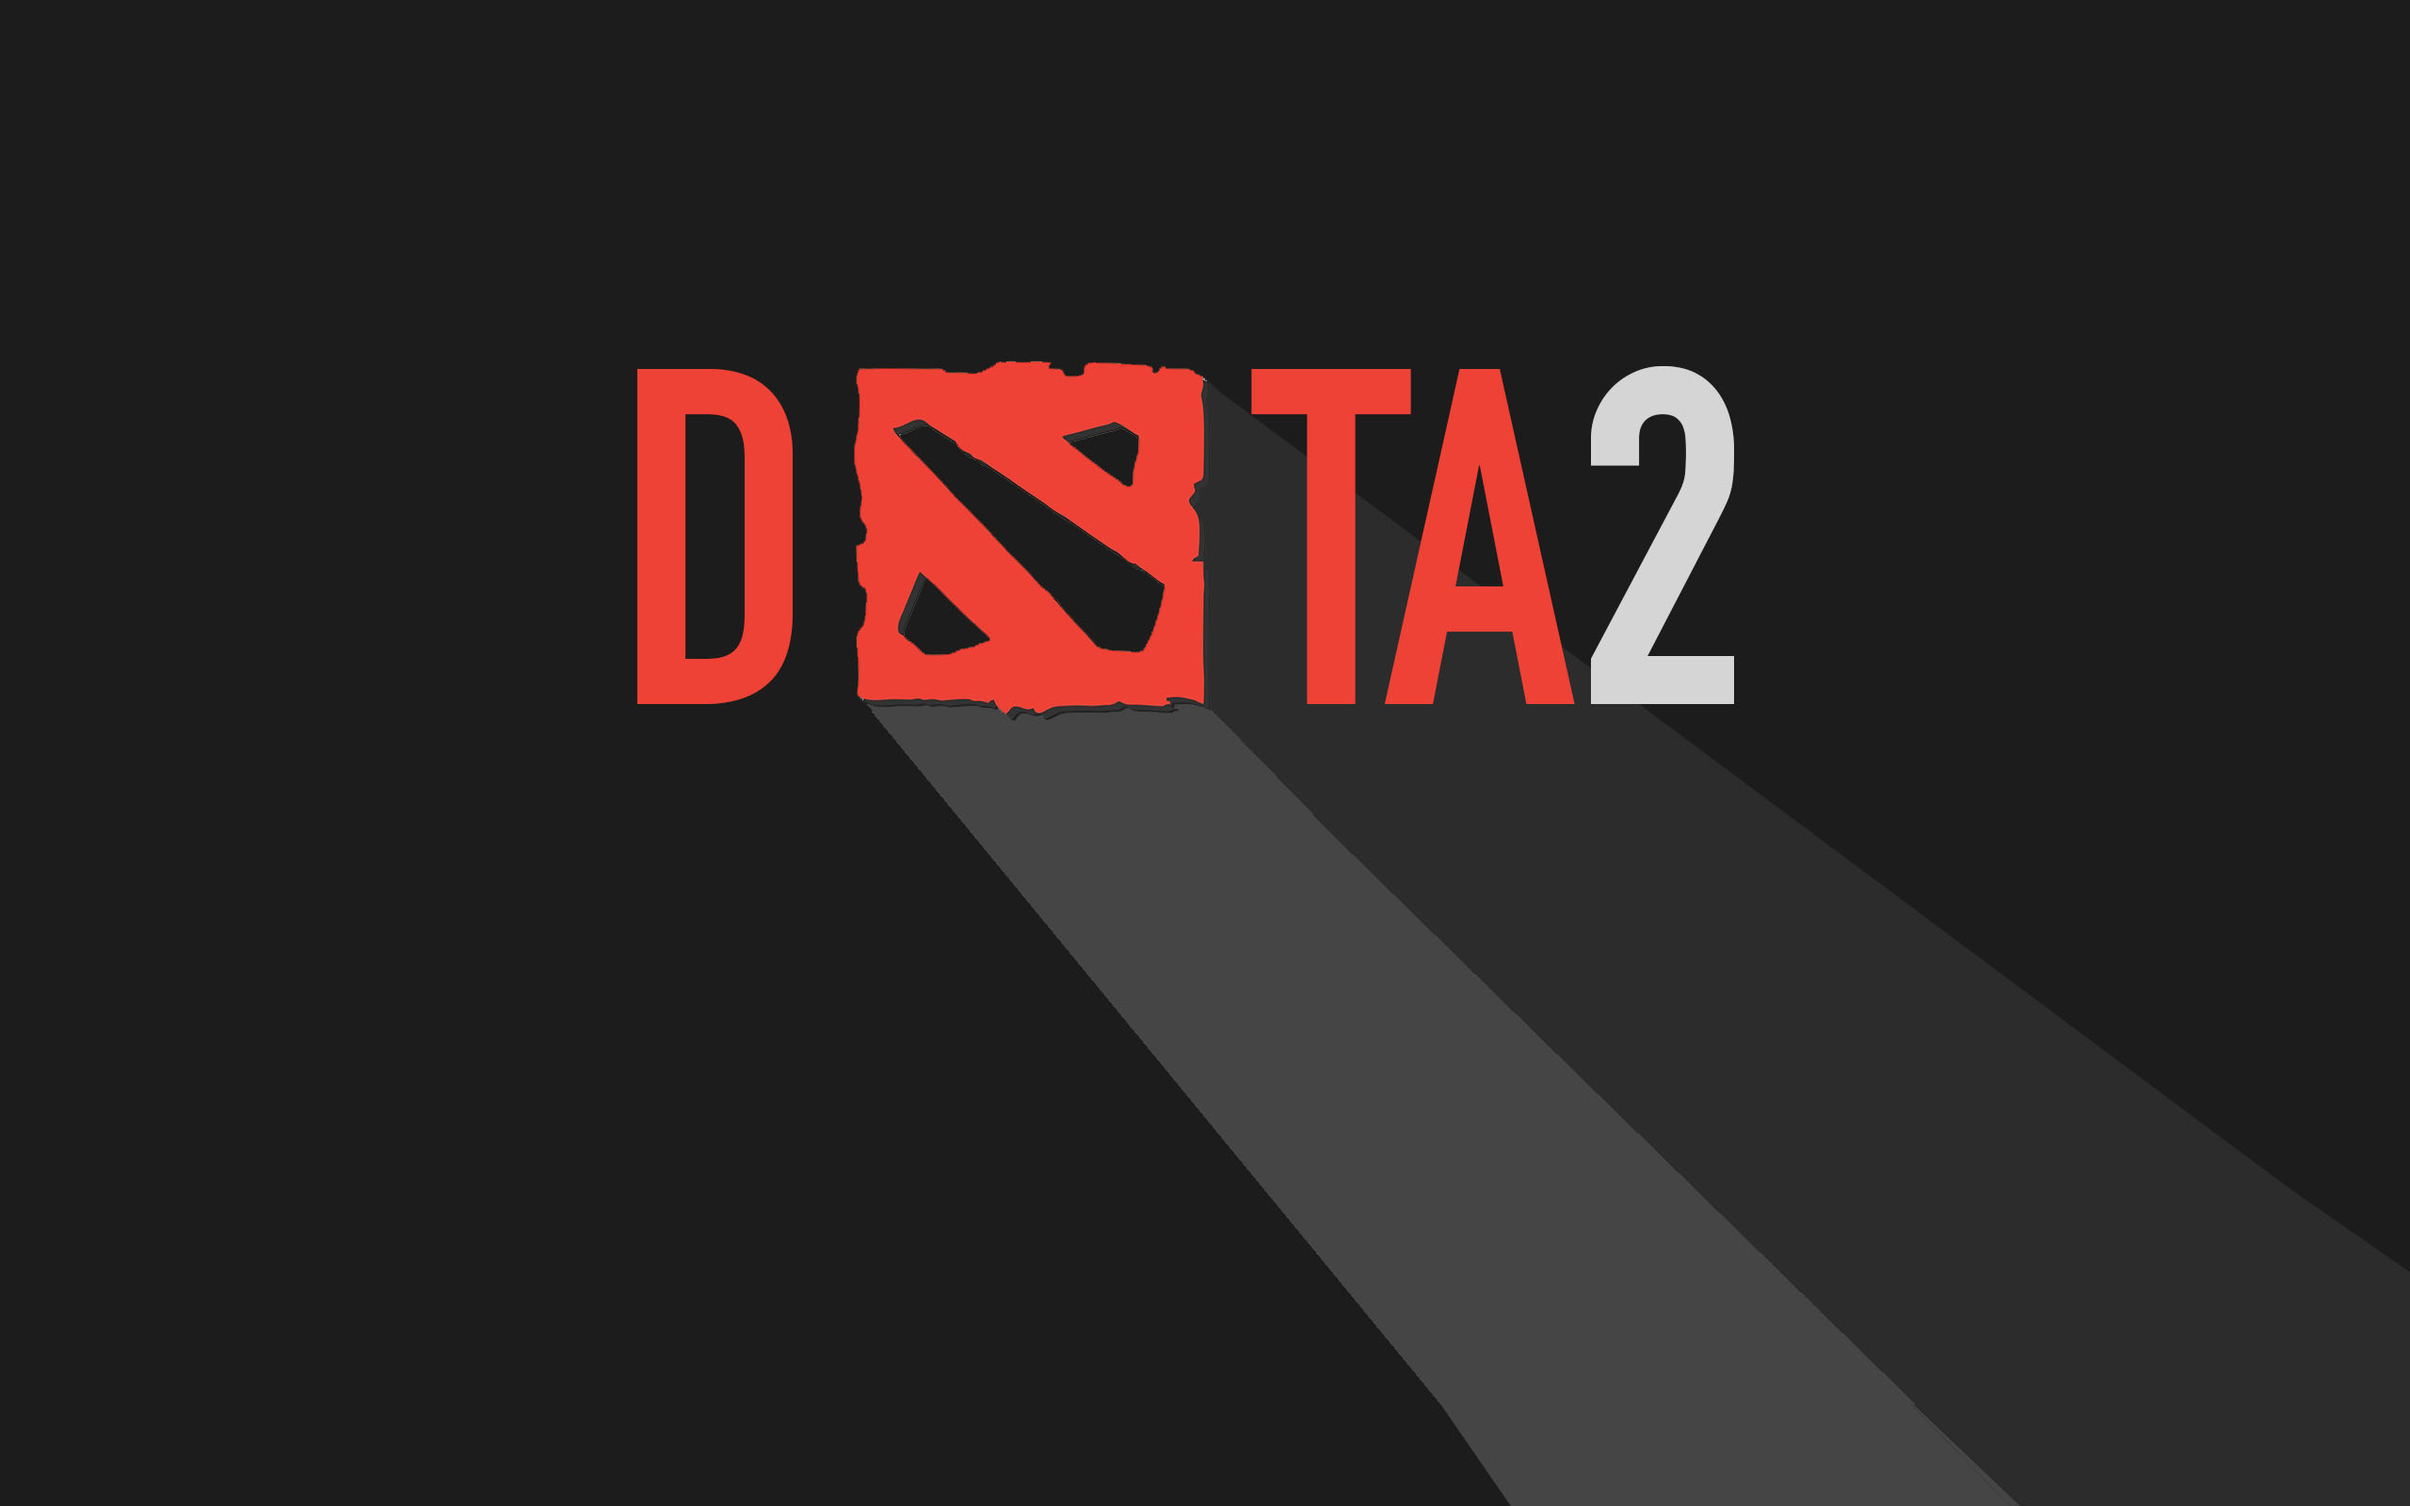
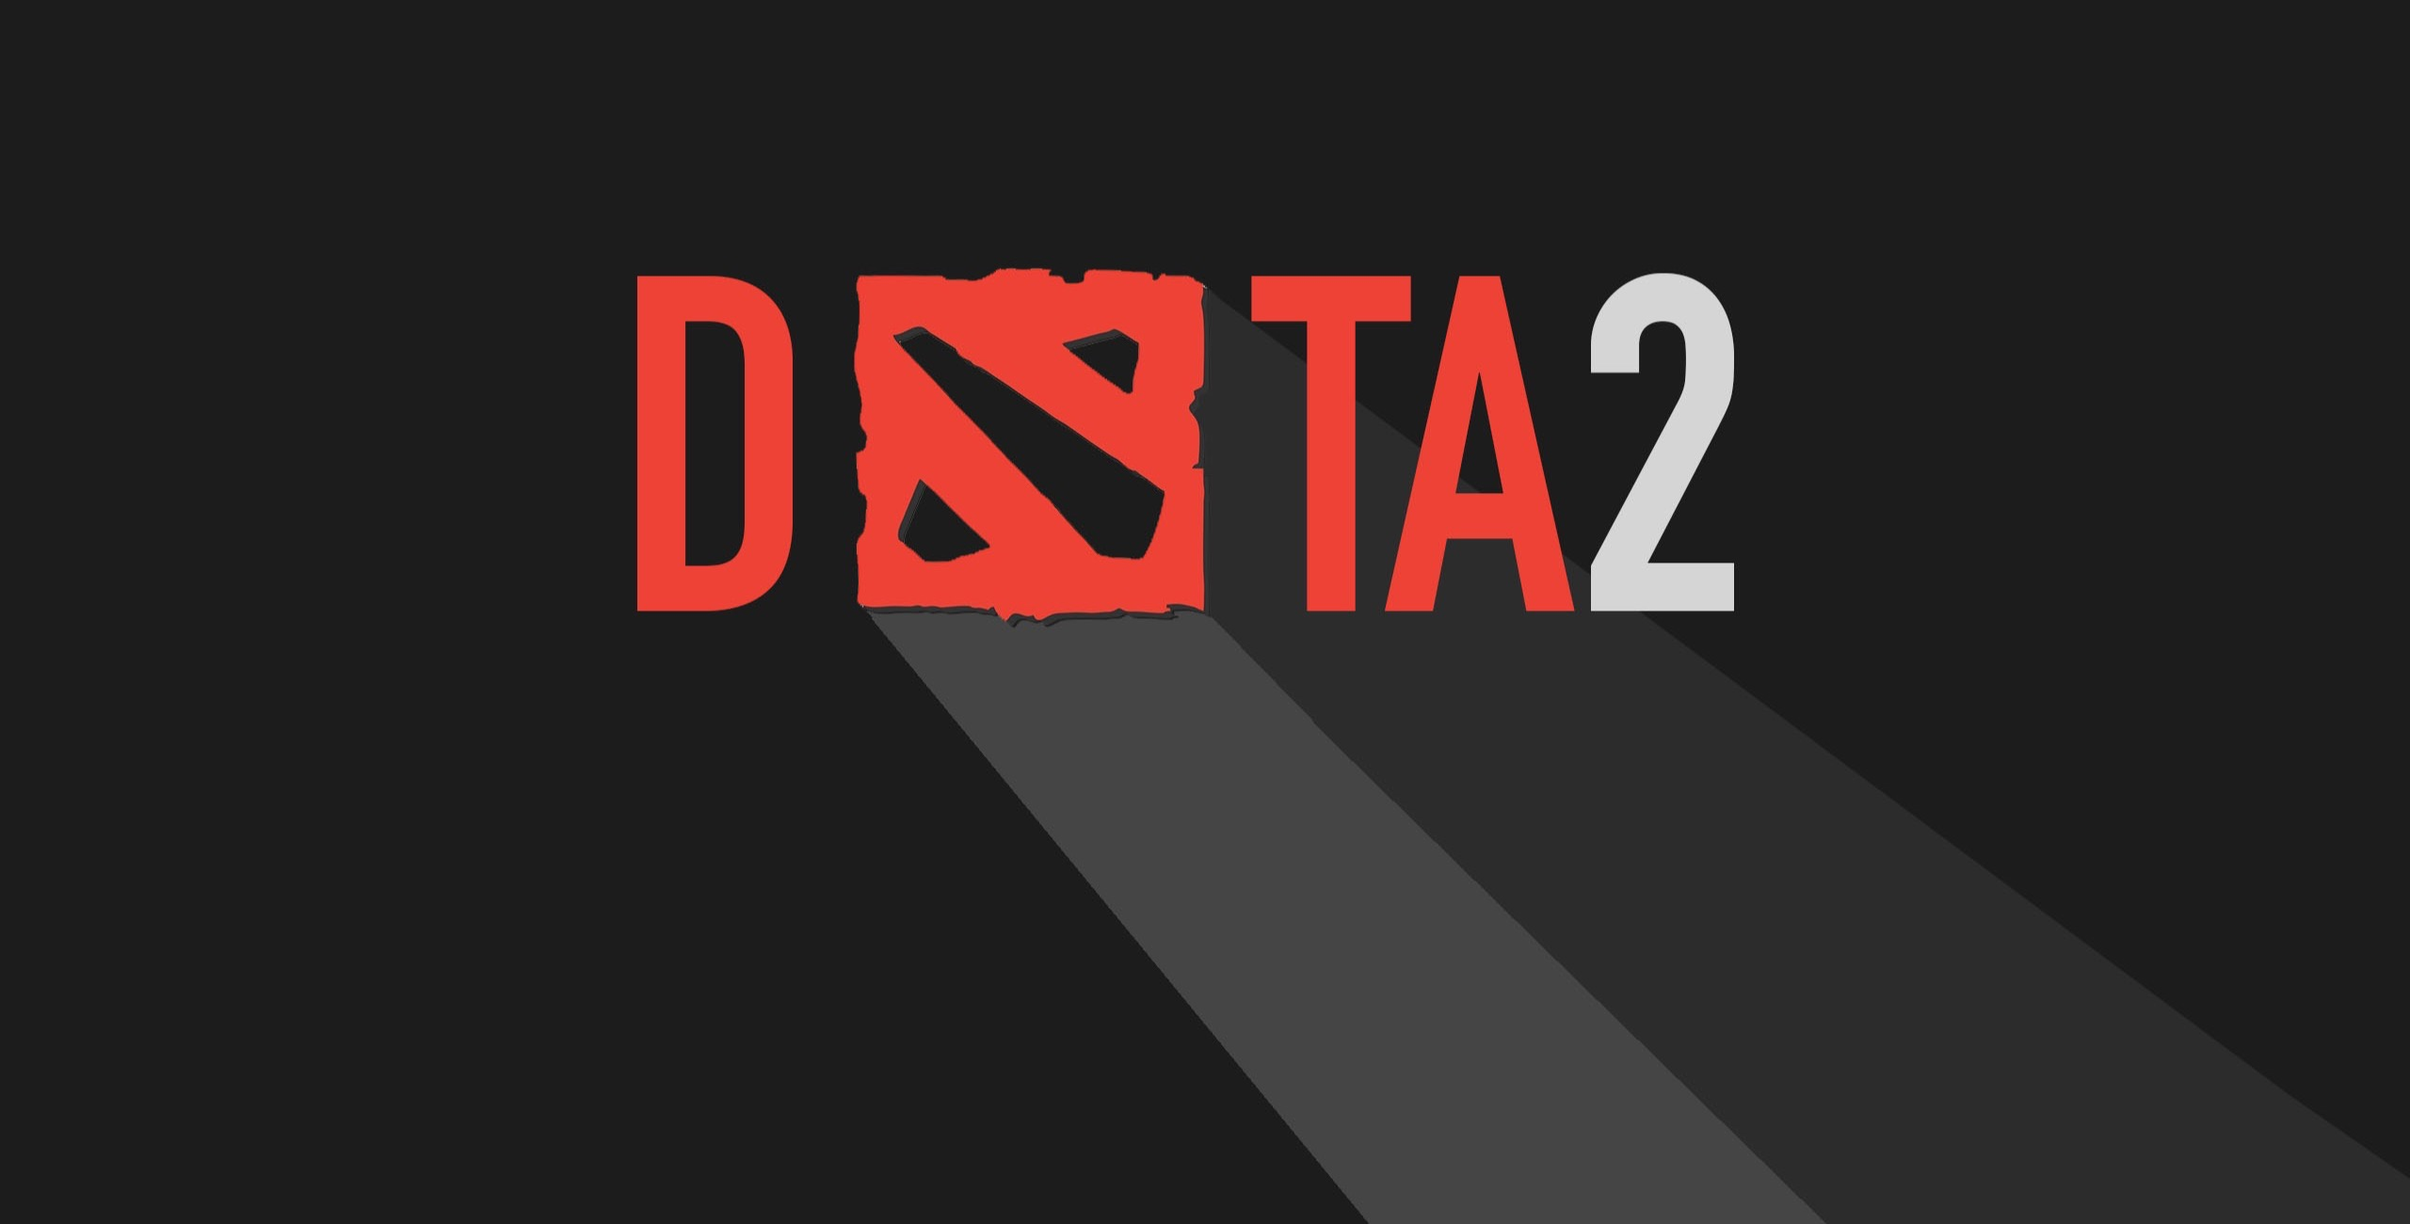
modifly parallex backgroud and playerRanking

diff --git a/public/css/style.css b/public/css/style.css
@@ -5,9 +5,9 @@ body{
     background-color: #191919;
 }
 .banner{
-    background-image: url("../images/bg/bg_2.png");
+    background-image: url("../images/bg/bg_2.jpg");
     background-size: cover;
-    padding: 100px;
+    padding: 200px;
     color: ghostwhite;
     /*opacity: 0.5;
     filter: alpha(opacity=200); */

diff --git a/public/css/style_nav.css b/public/css/style_nav.css
@@ -9,7 +9,7 @@
     margin-right: 45px;
 }
 .navbar {
-    /*border: 0px;*/
+    border: 0px;
     /*border-top-left-radius: 30px;
     border-top-right-radius: 30px;
     border-bottom-left-radius: 30px;
